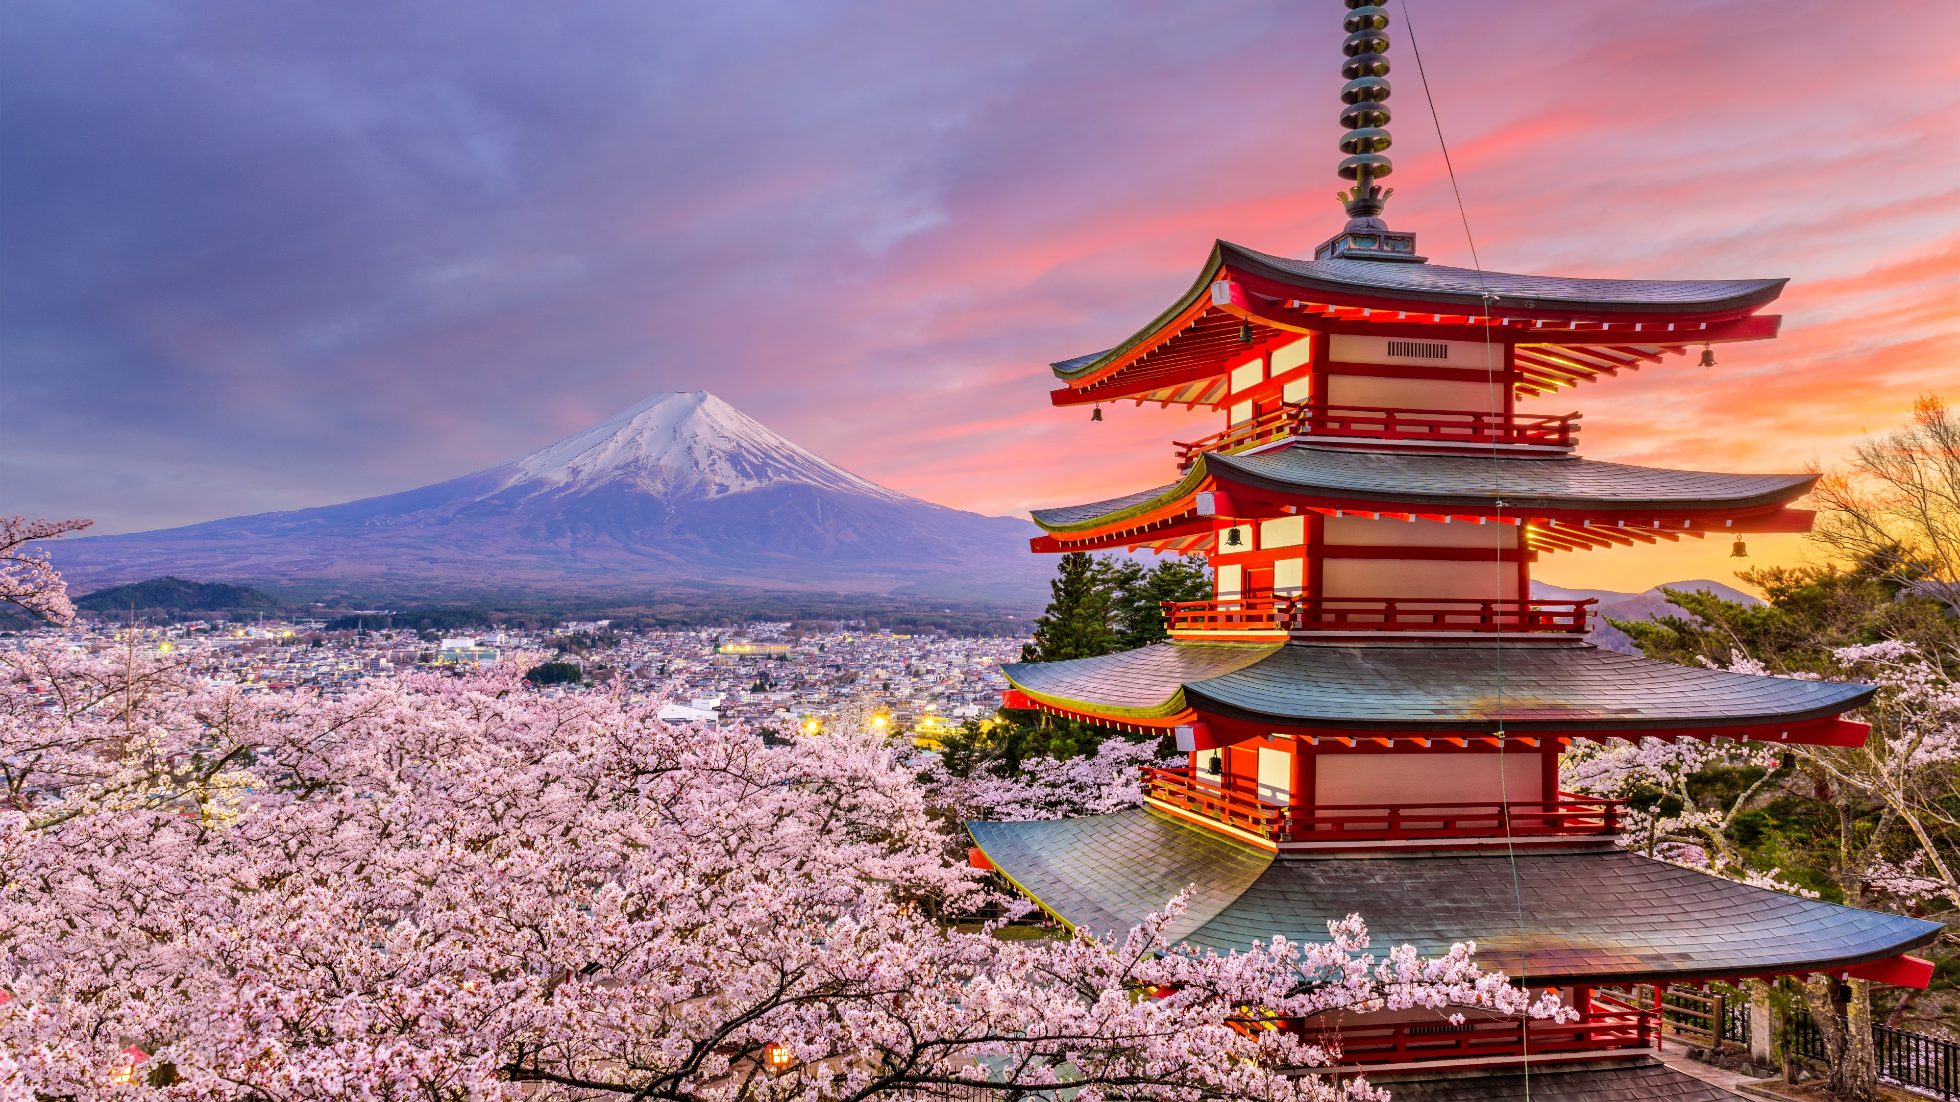
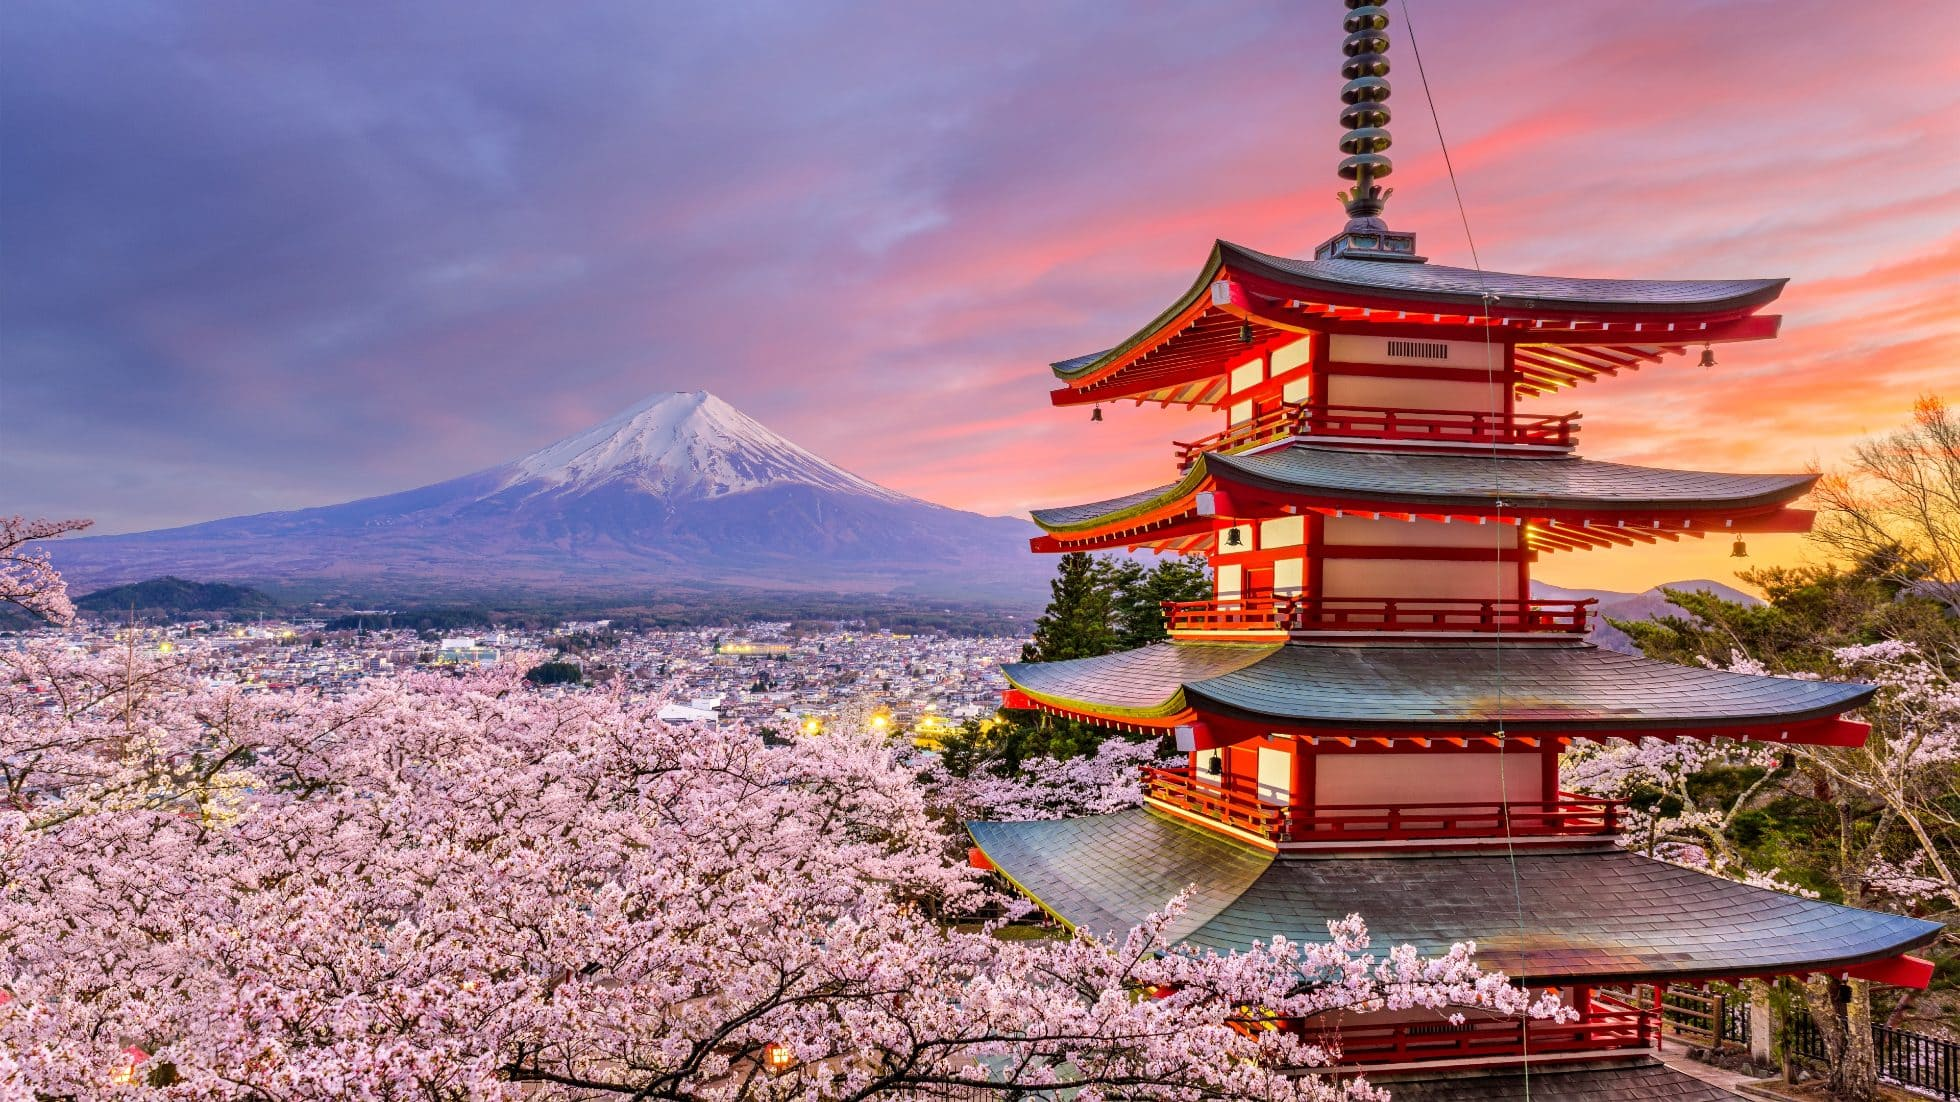
feat: company profile

diff --git a/src/app/profil/company-profile/page.tsx b/src/app/profil/company-profile/page.tsx
@@ -3,140 +3,255 @@ import React from "react";
 import Image from "next/image";
 
 export const metadata = {
-  title: "Company Profile - Aishiro Gakuen",
+  title: "Profil Perusahaan - LPK Aishiro Gakuen",
   description:
-    "Profil LPK Aishiro Gakuen — legalitas, misi, dan program Magang Jepang.",
+    "Profil LPK Aishiro Gakuen — legalitas, misi, fasilitas, dan layanan Magang Jepang.",
 };
 
 export default function CompanyProfilePage() {
   return (
     <main className="bg-white pt-24 pb-16 md:pt-28">
-      <div className="mx-auto max-w-4xl px-6">
-        <header className="mb-8 text-center">
-          <h1 className="text-4xl font-extrabold text-gray-900">
-            Company Profile
+      <div className="mx-auto max-w-6xl px-6">
+        <header className="mb-6 text-center md:text-left">
+          <h1 className="text-3xl font-extrabold text-gray-900 md:text-4xl">
+            Profil Perusahaan
           </h1>
-          <h2 className="mt-2 text-xl font-semibold text-red-700">
+          <h2 className="mt-2 text-lg font-semibold text-red-700 md:text-xl">
             LPK Aishiro Gakuen
           </h2>
-          <p className="mt-4 text-gray-600">
-            LPK. AISHIRO GAKUEN adalah lembaga pelatihan bahasa Jepang, yang
-            bergerak di bidang pemagangan ke Jepang, berdiri sejak 2009. Pada
-            2018 mendapatkan izin Sending Organisasi ke Jepang hingga saat ini.
-            Terakreditasi LA-LPK Nomor: 224/LALPK/XI/2024.
+          <p className="mt-4 max-w-2xl text-gray-600">
+            LPK AISHIRO GAKUEN adalah lembaga pelatihan bahasa Jepang yang
+            bergerak di bidang pemagangan ke Jepang, berdiri sejak 2009 dan pada
+            2018 mendapatkan izin sebagai Sending Organization. Terakreditasi
+            LA-LPK Nomor: 224/LALPK/XI/2024.
           </p>
         </header>
 
-        <section className="mb-8 rounded-lg border border-gray-100 bg-gray-50 p-6 shadow-sm">
-          <p className="text-lg leading-relaxed text-gray-700">
-            Dan atas kepercayaan masyarakat, LPK AISHIRO GAKUEN telah meluluskan
-            banyak siswa untuk berangkat magang kerja ke Jepang. Dengan berbekal
-            keterampilan yang didapat di Jepang, para alumni peserta magang
-            kerja rata-rata setelah kembali ke Indonesia membuat usaha mandiri,
-            seperti peternakan sapi, peternakan ayam, pertanian sayur, dan usaha
-            mandiri lainnya.
-          </p>
-        </section>
-
-        <section className="mb-8 grid grid-cols-1 gap-6">
-          <div className="rounded-lg border border-gray-100 bg-white p-6 shadow-sm">
-            <h3 className="mb-3 text-2xl font-semibold text-gray-800">
-              Visi <span className="text-red-700">目標</span>
-            </h3>
-            <p className="text-lg">
-              • Menjadikan Lembaga Pendidikan Dan Pelatihan Yang Profesional,
-              Mandiri, dan Berkarakter.
-            </p>
-            <p className="mt-2 text-sm text-gray-600">
-              専門的、独立的、そして性格的に優秀な教育訓練機関になり
-            </p>
-          </div>
-
-          <div className="rounded-lg bg-red-50 p-6 shadow-lg">
-            <h3 className="mb-3 text-2xl font-semibold text-red-700">
-              Misi <span className="text-gray-700">使命</span>
-            </h3>
-            <ul className="list-disc space-y-3 pl-5 text-lg text-gray-700">
-              <li>
-                Menyelenggarakan Program Pendidikan Dan Pelatihan Bahasa Jepang
-                Secara Profesional
-                <p className="mt-1 text-sm text-gray-600">
-                  専門的の日本語訓練および教育プログラムを実施する
-                </p>
-              </li>
-              <li>
-                Mendidik Generasi Muda Agar Memiliki Semangat Kerja Yang Tinggi,
-                Disiplin, dan Mandiri
-                <p className="mt-1 text-sm text-gray-600">
-                  仕事に対する高い意欲性、規律性、と自立性を持つ若い世代を教育する
-                </p>
-              </li>
-              <li>
-                Meningkatkan Hubungan Kerjasama Bidang Tenaga Kerja Antara
-                Indonesia Dengan Jepang
-                <p className="mt-1 text-sm text-gray-600">
-                  インドネシアと日本の労働分野の協力関係の改善
-                </p>
-              </li>
-            </ul>
-          </div>
-        </section>
-
-        <section className="mb-8 rounded-lg border border-gray-100 bg-white p-6 shadow-sm">
-          <h3 className="mb-3 text-2xl font-semibold text-gray-800">
-            Tujuan <span className="text-red-700">目的</span>
-          </h3>
-          <ul className="list-disc space-y-3 pl-5 text-lg text-gray-700">
-            <li>
-              Menyiapkan peserta didik menjadi anggota masyarakat yang mampu
-              menerapkan dan mengembangkan wawasan dunia kerja.
-              <p className="mt-1 text-sm text-gray-600">
-                仕事の世界についての洞察を適用し、それに開発することができる社会の一員になる実習生を備える
+        <div className="grid grid-cols-1 gap-8 md:grid-cols-3">
+          {/* Main content (2/3) */}
+          <div className="space-y-6 md:col-span-2">
+            <section className="rounded-lg border border-gray-100 bg-gray-50 p-6 shadow-sm">
+              <p className="text-lg leading-relaxed text-gray-700">
+                Atas kepercayaan masyarakat, LPK AISHIRO GAKUEN telah meluluskan
+                banyak peserta magang yang berangkat ke Jepang. Setelah kembali
+                ke Indonesia, banyak alumni yang memanfaatkan keterampilan dan
+                pengalaman untuk membuka usaha mandiri di berbagai sektor.
               </p>
-            </li>
-            <li>
-              Menghasilkan lulusan yang berkarakter dan memiliki komitmen yang
-              tinggi terhadap masyarakat.
-              <p className="mt-1 text-sm text-gray-600">
-                社会に対する高い本気度と徳性を持ち卒業生を育てる
+            </section>
+
+            <section className="grid grid-cols-1 gap-6 md:grid-cols-2">
+              <div className="rounded-lg border border-gray-100 bg-white p-6 shadow-sm">
+                <h3 className="mb-3 text-2xl font-semibold text-gray-800">
+                  Visi <span className="text-red-700">目標</span>
+                </h3>
+                <p className="text-lg">
+                  Menjadi lembaga pendidikan dan pelatihan yang profesional,
+                  mandiri, dan berkarakter.
+                </p>
+                <p className="mt-2 text-sm text-gray-600">
+                  専門的、独立的、そして性格的に優秀な教育訓練機関になり
+                </p>
+              </div>
+
+              <div className="rounded-lg bg-red-50 p-6 shadow-lg">
+                <h3 className="mb-3 text-2xl font-semibold text-red-700">
+                  Misi <span className="text-gray-700">使命</span>
+                </h3>
+                <ul className="list-disc space-y-3 pl-5 text-lg text-gray-700">
+                  <li>
+                    Menyelenggarakan program pendidikan dan pelatihan bahasa
+                    Jepang secara profesional.
+                  </li>
+                  <li>
+                    Mendidik generasi muda agar memiliki semangat kerja tinggi,
+                    disiplin, dan mandiri.
+                  </li>
+                  <li>
+                    Meningkatkan hubungan kerjasama bidang tenaga kerja antara
+                    Indonesia dan Jepang.
+                  </li>
+                </ul>
+              </div>
+            </section>
+
+            <section className="rounded-lg border border-gray-100 bg-white p-6 shadow-sm">
+              <h3 className="mb-3 text-2xl font-semibold text-gray-800">
+                Tujuan <span className="text-red-700">目的</span>
+              </h3>
+              <ul className="list-disc space-y-3 pl-5 text-lg text-gray-700">
+                <li>
+                  Menyiapkan peserta didik menjadi anggota masyarakat yang mampu
+                  menerapkan dan mengembangkan wawasan dunia kerja.
+                </li>
+                <li>
+                  Menghasilkan lulusan yang berkarakter dan memiliki komitmen
+                  tinggi terhadap masyarakat.
+                </li>
+              </ul>
+            </section>
+
+            {/* New sections representing pages 2–6 */}
+            <section id="struktur" className="rounded-lg bg-gray-50 p-6">
+              <h3 className="mb-3 text-2xl font-semibold text-gray-800">
+                Struktur Organisasi
+              </h3>
+              <p className="text-gray-700">
+                Struktur organisasi LPK terdiri dari Direksi, Tim Pendidikan
+                &amp; Pelatihan, Tim Administrasi, dan Tim Hubungan
+                Internasional. (Bagan organisasi dapat ditambahkan di sini.)
               </p>
-            </li>
-          </ul>
-        </section>
+            </section>
 
-        <section className="rounded-lg bg-gray-50 p-6">
-          <p className="text-lg leading-relaxed">
-            Dengan Visi dan Misi yang telah kami canangkan itu, berkomitmen
-            membantu masyarakat dalam meningkatkan ekonomi keluarga.
-          </p>
+            <section
+              id="fasilitas"
+              className="rounded-lg border border-gray-100 bg-white p-6 shadow-sm"
+            >
+              <h3 className="mb-3 text-2xl font-semibold text-gray-800">
+                Fasilitas
+              </h3>
+              <ul className="list-disc pl-5 text-lg text-gray-700">
+                <li>Ruang kelas ber-AC dan fasilitas audio visual</li>
+                <li>
+                  Laboratorium bahasa &amp; materi pembelajaran interaktif
+                </li>
+                <li>Ruang konsultasi karir dan persiapan dokumen</li>
+              </ul>
+            </section>
 
-          <div className="mt-6 flex items-center gap-6">
-            <Image
-              src="/Images/Direktur.jpeg"
-              alt="Foto Direktur"
-              width={96}
-              height={96}
-              className="rounded-full object-cover shadow-md"
-            />
-            <div>
-              <p className="font-bold">YASMIN MASAMI, S.Pd</p>
-              <p className="text-sm text-gray-600">DIREKTUR</p>
-            </div>
+            <section id="statistik" className="rounded-lg bg-red-50 p-6">
+              <h3 className="mb-3 text-2xl font-semibold text-red-700">
+                Statistik
+              </h3>
+              <div className="grid grid-cols-2 gap-4">
+                <div className="rounded border bg-white p-4 text-center">
+                  <p className="text-2xl font-bold">200+</p>
+                  <p className="text-sm text-gray-600">Alumni</p>
+                </div>
+                <div className="rounded border bg-white p-4 text-center">
+                  <p className="text-2xl font-bold">2018</p>
+                  <p className="text-sm text-gray-600">Izin Sending Org</p>
+                </div>
+              </div>
+            </section>
+
+            <section
+              id="layanan"
+              className="rounded-lg border border-gray-100 bg-white p-6 shadow-sm"
+            >
+              <h3 className="mb-3 text-2xl font-semibold text-gray-800">
+                Layanan
+              </h3>
+              <ul className="list-disc pl-5 text-lg text-gray-700">
+                <li>Pelatihan Bahasa Jepang intensif</li>
+                <li>Pendampingan proses aplikasi magang</li>
+                <li>Persiapan dokumen dan pengurusan izin</li>
+              </ul>
+            </section>
+
+            <section id="legalitas" className="rounded-lg bg-gray-50 p-6">
+              <h3 className="mb-3 text-2xl font-semibold text-gray-800">
+                Legalitas &amp; Akreditasi
+              </h3>
+              <ul className="list-disc pl-5 text-lg text-gray-700">
+                <li>Didirikan: 2009</li>
+                <li>Terakreditasi: LA-LPK Nomor 224/LALPK/XI/2024</li>
+                <li>Izin: Sending Organization (Sejak 2018)</li>
+              </ul>
+            </section>
           </div>
 
-          {/* Foto Gedung LPK (diletakkan di bawah profil direktur) */}
-          <div className="mt-6">
-            <div className="relative h-56 w-full overflow-hidden rounded-lg md:h-96">
-              <Image
-                src="/Images/gedunglpk.jpeg"
-                alt="Gedung LPK Aishiro"
-                fill
-                style={{ objectFit: "cover" }}
-                priority
-              />
+          {/* Sidebar (1/3) */}
+          <aside className="md:col-span-1">
+            <div className="sticky top-28 space-y-4">
+              <div className="rounded-lg border border-gray-100 bg-white p-6 shadow-sm">
+                <h4 className="mb-3 text-lg font-semibold text-gray-800">
+                  Informasi Perusahaan
+                </h4>
+                <table className="w-full text-sm">
+                  <tbody>
+                    <tr>
+                      <td className="py-2 font-medium text-gray-700">Nama</td>
+                      <td className="py-2 text-gray-600">LPK Aishiro Gakuen</td>
+                    </tr>
+                    <tr>
+                      <td className="py-2 font-medium text-gray-700">Alamat</td>
+                      <td className="py-2 text-gray-600">
+                        Semarang, Indonesia
+                      </td>
+                    </tr>
+                    <tr>
+                      <td className="py-2 font-medium text-gray-700">
+                        Telepon
+                      </td>
+                      <td className="py-2 text-gray-600">+62 882-1575-1500</td>
+                    </tr>
+                    <tr>
+                      <td className="py-2 font-medium text-gray-700">Email</td>
+                      <td className="py-2 text-gray-600">
+                        info@aishiro.example
+                      </td>
+                    </tr>
+                    <tr>
+                      <td className="py-2 font-medium text-gray-700">
+                        Tahun berdiri
+                      </td>
+                      <td className="py-2 text-gray-600">2009</td>
+                    </tr>
+                    <tr>
+                      <td className="py-2 font-medium text-gray-700">
+                        Akreditasi
+                      </td>
+                      <td className="py-2 text-gray-600">
+                        LA-LPK 224/LALPK/XI/2024
+                      </td>
+                    </tr>
+                    <tr>
+                      <td className="py-2 font-medium text-gray-700">Alumni</td>
+                      <td className="py-2 text-gray-600">200+</td>
+                    </tr>
+                  </tbody>
+                </table>
+              </div>
+
+              <div className="rounded-lg border border-gray-100 bg-white p-6 shadow-sm">
+                <h4 className="mb-3 text-lg font-semibold text-gray-800">
+                  Tautan Cepat
+                </h4>
+                <ul className="space-y-2 text-gray-700">
+                  <li>
+                    <a
+                      href="#struktur"
+                      className="text-red-700 hover:underline"
+                    >
+                      Struktur Organisasi
+                    </a>
+                  </li>
+                  <li>
+                    <a
+                      href="#fasilitas"
+                      className="text-red-700 hover:underline"
+                    >
+                      Fasilitas
+                    </a>
+                  </li>
+                  <li>
+                    <a
+                      href="#statistik"
+                      className="text-red-700 hover:underline"
+                    >
+                      Statistik
+                    </a>
+                  </li>
+                  <li>
+                    <a href="#layanan" className="text-red-700 hover:underline">
+                      Layanan
+                    </a>
+                  </li>
+                </ul>
+              </div>
             </div>
-          </div>
-        </section>
+          </aside>
+        </div>
       </div>
     </main>
   );
